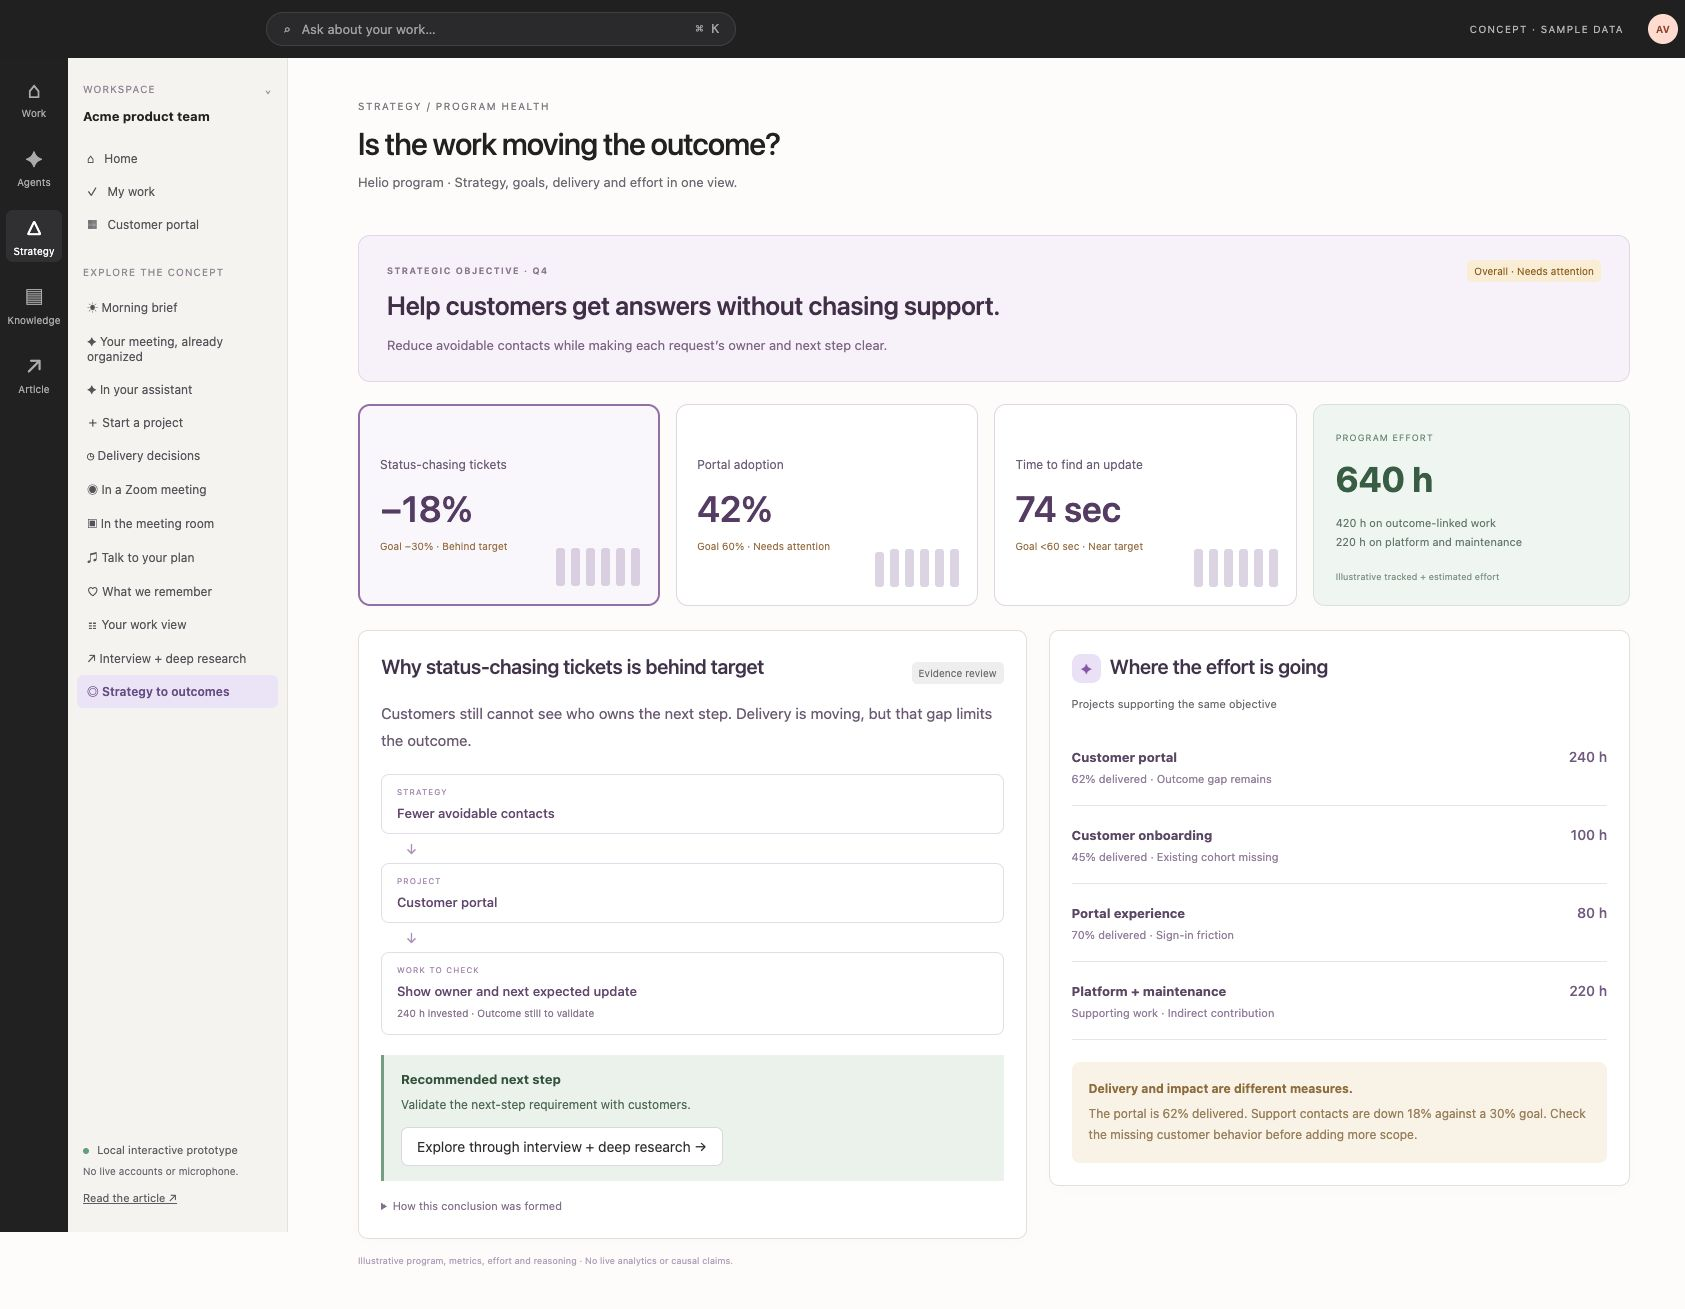
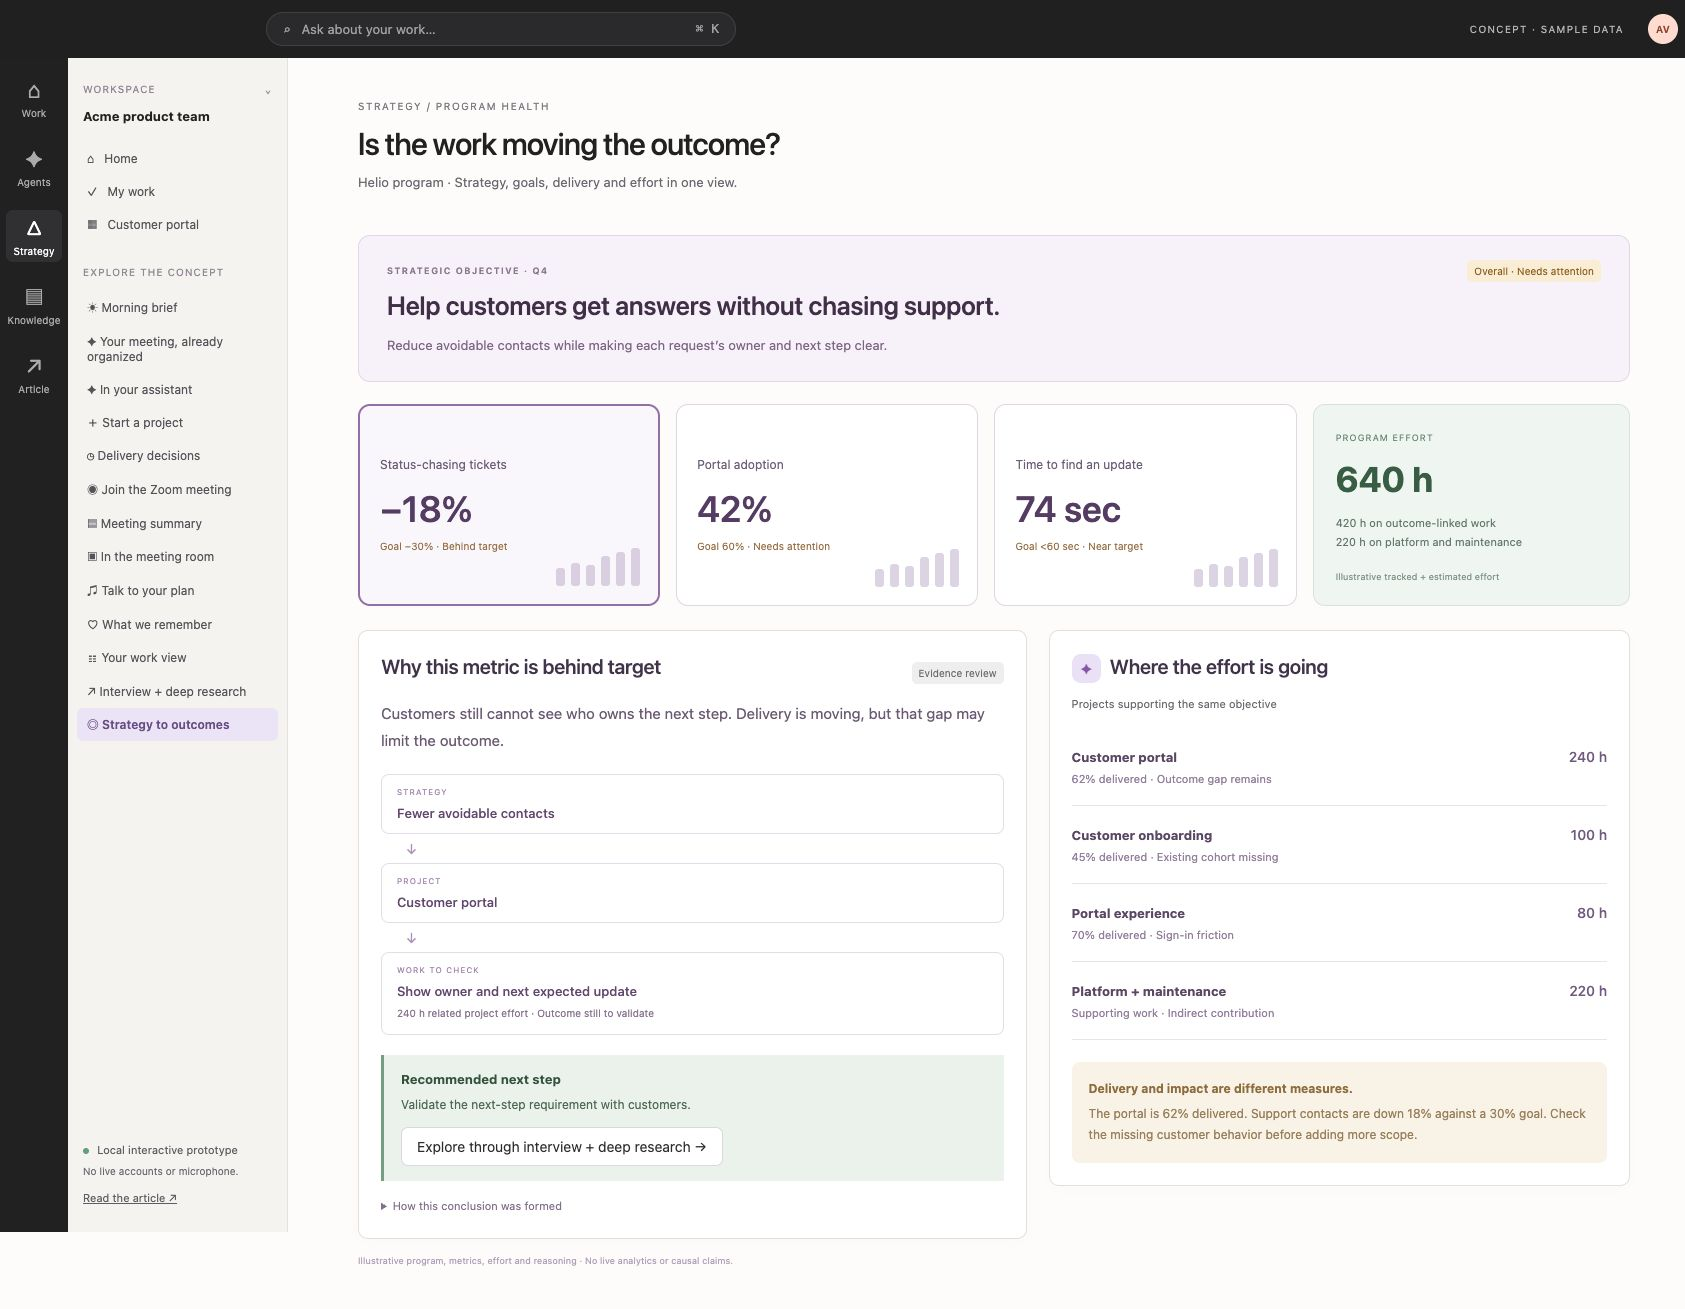
Clarify program reasoning and effort attribution

diff --git a/projects/asana/prototype/app.js b/projects/asana/prototype/app.js
@@ -30,6 +30,6 @@ function revealMeetingDecision(which){state.meetingPlanReveal=true;state.meeting
 function keepMeetingPlan(){if(!state.meetingPlanApplied)state.beforeMeetingPlan={risk:state.risk,voice:state.voice};state.risk=true;state.voice=true;state.meetingPlanApplied=true;render();toast('Two updates kept in the sample plan. Nobody notified.')}
 function resetMeetingPlan(){if(state.meetingPlanApplied){state.risk=state.beforeMeetingPlan?.risk??false;state.voice=state.beforeMeetingPlan?.voice??false}state.meetingPlanApplied=false;state.meetingPlanReveal=false;state.meetingPlanFocus=null;render()}
 const meetingLive=()=>head('Voice / Join the meeting','The conversation becomes the next steps.','A Zoom-style meeting with Asana alongside the team.')+`<div class="zoom-live"><div class="zoom-live-top"><strong>Zoom · Helio status update</strong><span>${state.joinedMeeting?'● Asana has joined':'Waiting for Asana'}</span></div><div class="zoom-live-body"><section class="zoom-call-stage"><div class="zoom-call-tiles">${[['AV','Aditya','Product'],['SL','Sam','Engineering'],['PR','Priya','Security'],['AL','Alex','Experience']].map(([initials,name,role],i)=>`<div class="zoom-person tile-${i}"><span>${initials}</span><small>${name} · ${role}</small></div>`).join('')}</div><div class="zoom-live-caption"><span>LIVE DISCUSSION · SAMPLE</span><p>“Move the review to Priya. Add an accessibility check for Alex. Keep October 30 as the target.”</p></div><div class="zoom-call-controls"><span>♩ Mute</span><span>▣ Video</span><span>☷ Participants</span><span>↥ Share</span><span class="zoom-leave">Leave</span></div></section><aside class="zoom-asana-panel"><div class="row spread"><strong>✦ Asana</strong><span class="tag ${state.joinedMeeting?'green':'gray'}">${state.joinedMeeting?'Joined':'Ready to join'}</span></div>${state.joinedMeeting?`<h2>Here are the next steps.</h2><p class="tiny">Prepared from the discussion. Review the owners and timing.</p><div class="zoom-action-list">${[['Confirm security review','Priya · Today','Reassign from Sam. Confirm availability.'],['Run accessibility check','Alex · Oct 23','Keyboard navigation and labels, before review.'],['Share the authentication fix plan','Sam · Today','Unblock PR #184 before launch sign-off.']].map(([title,owner,detail],i)=>`<label><input type="checkbox" ${state.zoomActionDone?.[i]?'checked':''} onchange="state.zoomActionDone={...state.zoomActionDone,[${i}]:this.checked};render()"><span><strong>${title}</strong><small>${owner}</small><p>${detail}</p></span></label>`).join('')}</div><div class="zoom-plan-proposal"><strong>2 plan changes ready</strong><p>New accessibility task · Review owner <s>Sam</s> → Priya</p><button class="primary" onclick="${state.meetingPlanApplied?'resetMeetingPlan()':'keepMeetingPlan()'}">${state.meetingPlanApplied?'Undo sample sign-off':'Sign off plan changes →'}</button><small>${state.meetingPlanApplied?'✓ Signed off in the sample plan':'Nothing applied until you review.'}</small></div><button class="inline-link" onclick="go('meeting')">Open summary and Gantt →</button>`:`<h2>Bring the plan into the conversation.</h2><p>Asana follows the discussion, prepares to-dos and proposes plan changes for sign-off.</p><button class="primary" onclick="state.joinedMeeting=true;render()">Join this sample meeting →</button>`}</aside></div></div><p class="meeting-demo-note">Illustrative Zoom-style UI · No live call, recording or participant notification · Fictional participants and conversation.</p>`;
-const strategy=()=>{const active=state.strategyMetric||'support';const metrics={support:{name:'Status-chasing tickets',value:'−18%',target:'−30%',status:'Behind target',reason:'Customers still cannot see who owns the next step. Delivery is moving, but that gap may limit the outcome.',project:'Customer portal',task:'Show owner and next expected update',effort:'240 h',source:'Support themes + portal adoption',next:'Validate the next-step requirement with customers.'},adoption:{name:'Portal adoption',value:'42%',target:'60%',status:'Needs attention',reason:'Customers with older requests still receive email-only updates. Adoption is concentrated in newly created requests.',project:'Customer onboarding',task:'Invite existing active customers',effort:'100 h',source:'Sample product events + cohort breakdown',next:'Pilot invitations with the existing-customer cohort.'},cycle:{name:'Time to find an update',value:'74 sec',target:'<60 sec',status:'Near target',reason:'Sign-in and request lookup account for most of the remaining time. The status screen itself is not the only bottleneck.',project:'Portal experience',task:'Simplify sign-in recovery',effort:'80 h',source:'Sample usability sessions',next:'Test sign-in recovery before adding more dashboard features.'}};const m=metrics[active];return head('Strategy / Program health','Is the work moving the outcome?','Helio program · Strategy, goals, delivery and effort in one view.')+`<section class="program-objective"><div><span class="brief-label">STRATEGIC OBJECTIVE · Q4</span><h2>Help customers get answers without chasing support.</h2><p>Reduce avoidable contacts while making each request’s owner and next step clear.</p></div><span class="tag amber">Overall · Needs attention</span></section><div class="strategy-metrics">${Object.entries(metrics).map(([key,x])=>`<button class="strategy-metric ${key===active?'metric-selected':''}" onclick="state.strategyMetric='${key}';render()"><span>${x.name}</span><strong>${x.value}</strong><small>Goal ${x.target} · ${x.status}</small><div class="metric-mini-bars" aria-hidden="true">${[35,46,42,60,68,75].map((n,i)=>`<i style="height:${Math.round(n/2)}px"></i>`).join('')}</div></button>`).join('')}<div class="strategy-effort"><span>PROGRAM EFFORT</span><strong>640 h</strong><p>420 h on outcome-linked work<br>220 h on platform and maintenance</p><small>Illustrative tracked + estimated effort</small></div></div><div class="strategy-detail-layout"><section class="card strategy-reasoning"><div class="row spread"><h2>Why ${m.name.toLowerCase()} is ${active==='cycle'?'near':'behind'} target</h2><span class="tag gray">Evidence review</span></div><p class="strategy-conclusion">${m.reason}</p><div class="strategy-causal"><div><small>STRATEGY</small><strong>Fewer avoidable contacts</strong></div><span>↓</span><div><small>PROJECT</small><strong>${m.project}</strong></div><span>↓</span><div><small>WORK TO CHECK</small><strong>${m.task}</strong><p>${m.effort} invested · Outcome still to validate</p></div></div><div class="research-finding"><strong>Recommended next step</strong><p>${m.next}</p><button onclick="go('create')">Explore through interview + deep research →</button></div><details><summary>How this conclusion was formed</summary><p>Compare the goal with the current metric, inspect the cohort, then trace related delivery and effort. ${m.source} informs this hypothesis; task completion alone does not establish causation.</p></details></section><section class="card strategy-work"><h2>Where the effort is going</h2><p class="tiny">Projects supporting the same objective</p>${[['Customer portal','240 h','62% delivered','Outcome gap remains'],['Customer onboarding','100 h','45% delivered','Existing cohort missing'],['Portal experience','80 h','70% delivered','Sign-in friction'],['Platform + maintenance','220 h','Supporting work','Indirect contribution']].map(([name,hours,progress,note])=>`<div class="effort-row"><div><strong>${name}</strong><small>${progress} · ${note}</small></div><b>${hours}</b></div>`).join('')}<div class="strategy-effort-note"><strong>Delivery and impact are different measures.</strong><p>The portal is 62% delivered. Support contacts are down 18% against a 30% goal. Check the missing customer behavior before adding more scope.</p></div></section></div><p class="meeting-demo-note">Illustrative program, metrics, effort and reasoning · No live analytics or causal claims.</p>`;};
+const strategy=()=>{const active=state.strategyMetric||'support';const metrics={support:{name:'Status-chasing tickets',value:'−18%',target:'−30%',status:'Behind target',reason:'Customers still cannot see who owns the next step. Delivery is moving, but that gap may limit the outcome.',project:'Customer portal',task:'Show owner and next expected update',effort:'240 h',source:'Support themes + portal adoption',next:'Validate the next-step requirement with customers.'},adoption:{name:'Portal adoption',value:'42%',target:'60%',status:'Needs attention',reason:'Customers with older requests still receive email-only updates. Adoption is concentrated in newly created requests.',project:'Customer onboarding',task:'Invite existing active customers',effort:'100 h',source:'Sample product events + cohort breakdown',next:'Pilot invitations with the existing-customer cohort.'},cycle:{name:'Time to find an update',value:'74 sec',target:'<60 sec',status:'Near target',reason:'Sign-in and request lookup account for most of the remaining time. The status screen itself is not the only bottleneck.',project:'Portal experience',task:'Simplify sign-in recovery',effort:'80 h',source:'Sample usability sessions',next:'Test sign-in recovery before adding more dashboard features.'}};const m=metrics[active];return head('Strategy / Program health','Is the work moving the outcome?','Helio program · Strategy, goals, delivery and effort in one view.')+`<section class="program-objective"><div><span class="brief-label">STRATEGIC OBJECTIVE · Q4</span><h2>Help customers get answers without chasing support.</h2><p>Reduce avoidable contacts while making each request’s owner and next step clear.</p></div><span class="tag amber">Overall · Needs attention</span></section><div class="strategy-metrics">${Object.entries(metrics).map(([key,x])=>`<button class="strategy-metric ${key===active?'metric-selected':''}" onclick="state.strategyMetric='${key}';render()"><span>${x.name}</span><strong>${x.value}</strong><small>Goal ${x.target} · ${x.status}</small><div class="metric-mini-bars" aria-hidden="true">${[35,46,42,60,68,75].map((n,i)=>`<i style="height:${Math.round(n/2)}px"></i>`).join('')}</div></button>`).join('')}<div class="strategy-effort"><span>PROGRAM EFFORT</span><strong>640 h</strong><p>420 h on outcome-linked work<br>220 h on platform and maintenance</p><small>Illustrative tracked + estimated effort</small></div></div><div class="strategy-detail-layout"><section class="card strategy-reasoning"><div class="row spread"><h2>Why this metric is ${active==='cycle'?'near':'behind'} target</h2><span class="tag gray">Evidence review</span></div><p class="strategy-conclusion">${m.reason}</p><div class="strategy-causal"><div><small>STRATEGY</small><strong>Fewer avoidable contacts</strong></div><span>↓</span><div><small>PROJECT</small><strong>${m.project}</strong></div><span>↓</span><div><small>WORK TO CHECK</small><strong>${m.task}</strong><p>${m.effort} related project effort · Outcome still to validate</p></div></div><div class="research-finding"><strong>Recommended next step</strong><p>${m.next}</p><button onclick="go('create')">Explore through interview + deep research →</button></div><details><summary>How this conclusion was formed</summary><p>Compare the goal with the current metric, inspect the cohort, then trace related delivery and effort. ${m.source} informs this hypothesis; task completion alone does not establish causation.</p></details></section><section class="card strategy-work"><h2>Where the effort is going</h2><p class="tiny">Projects supporting the same objective</p>${[['Customer portal','240 h','62% delivered','Outcome gap remains'],['Customer onboarding','100 h','45% delivered','Existing cohort missing'],['Portal experience','80 h','70% delivered','Sign-in friction'],['Platform + maintenance','220 h','Supporting work','Indirect contribution']].map(([name,hours,progress,note])=>`<div class="effort-row"><div><strong>${name}</strong><small>${progress} · ${note}</small></div><b>${hours}</b></div>`).join('')}<div class="strategy-effort-note"><strong>Delivery and impact are different measures.</strong><p>The portal is 62% delivered. Support contacts are down 18% against a 30% goal. Check the missing customer behavior before adding more scope.</p></div></section></div><p class="meeting-demo-note">Illustrative program, metrics, effort and reasoning · No live analytics or causal claims.</p>`;};
 const pages={'meeting-live':meetingLive,'meeting-plan':meetingPlan,morning,home,assistant,brief,plan,board,risk,meeting,room,voice,learning,developer,create,strategy};
 function render(){let r=location.hash.slice(1)||'home';if(!pages[r])r='home';$('#main').innerHTML=pages[r]();document.querySelectorAll('[data-route]').forEach(el=>el.classList.toggle('active',el.dataset.route===r));document.querySelectorAll('#main .card > h2').forEach((h,i)=>{const icon=document.createElement('span');icon.className='panel-icon icon-'+(i%3);icon.textContent=['✦','◷','✓'][i%3];h.prepend(icon)});document.title=`Asana concept · ${r}`;window.scrollTo(0,0)}window.addEventListener('hashchange',render);render();
